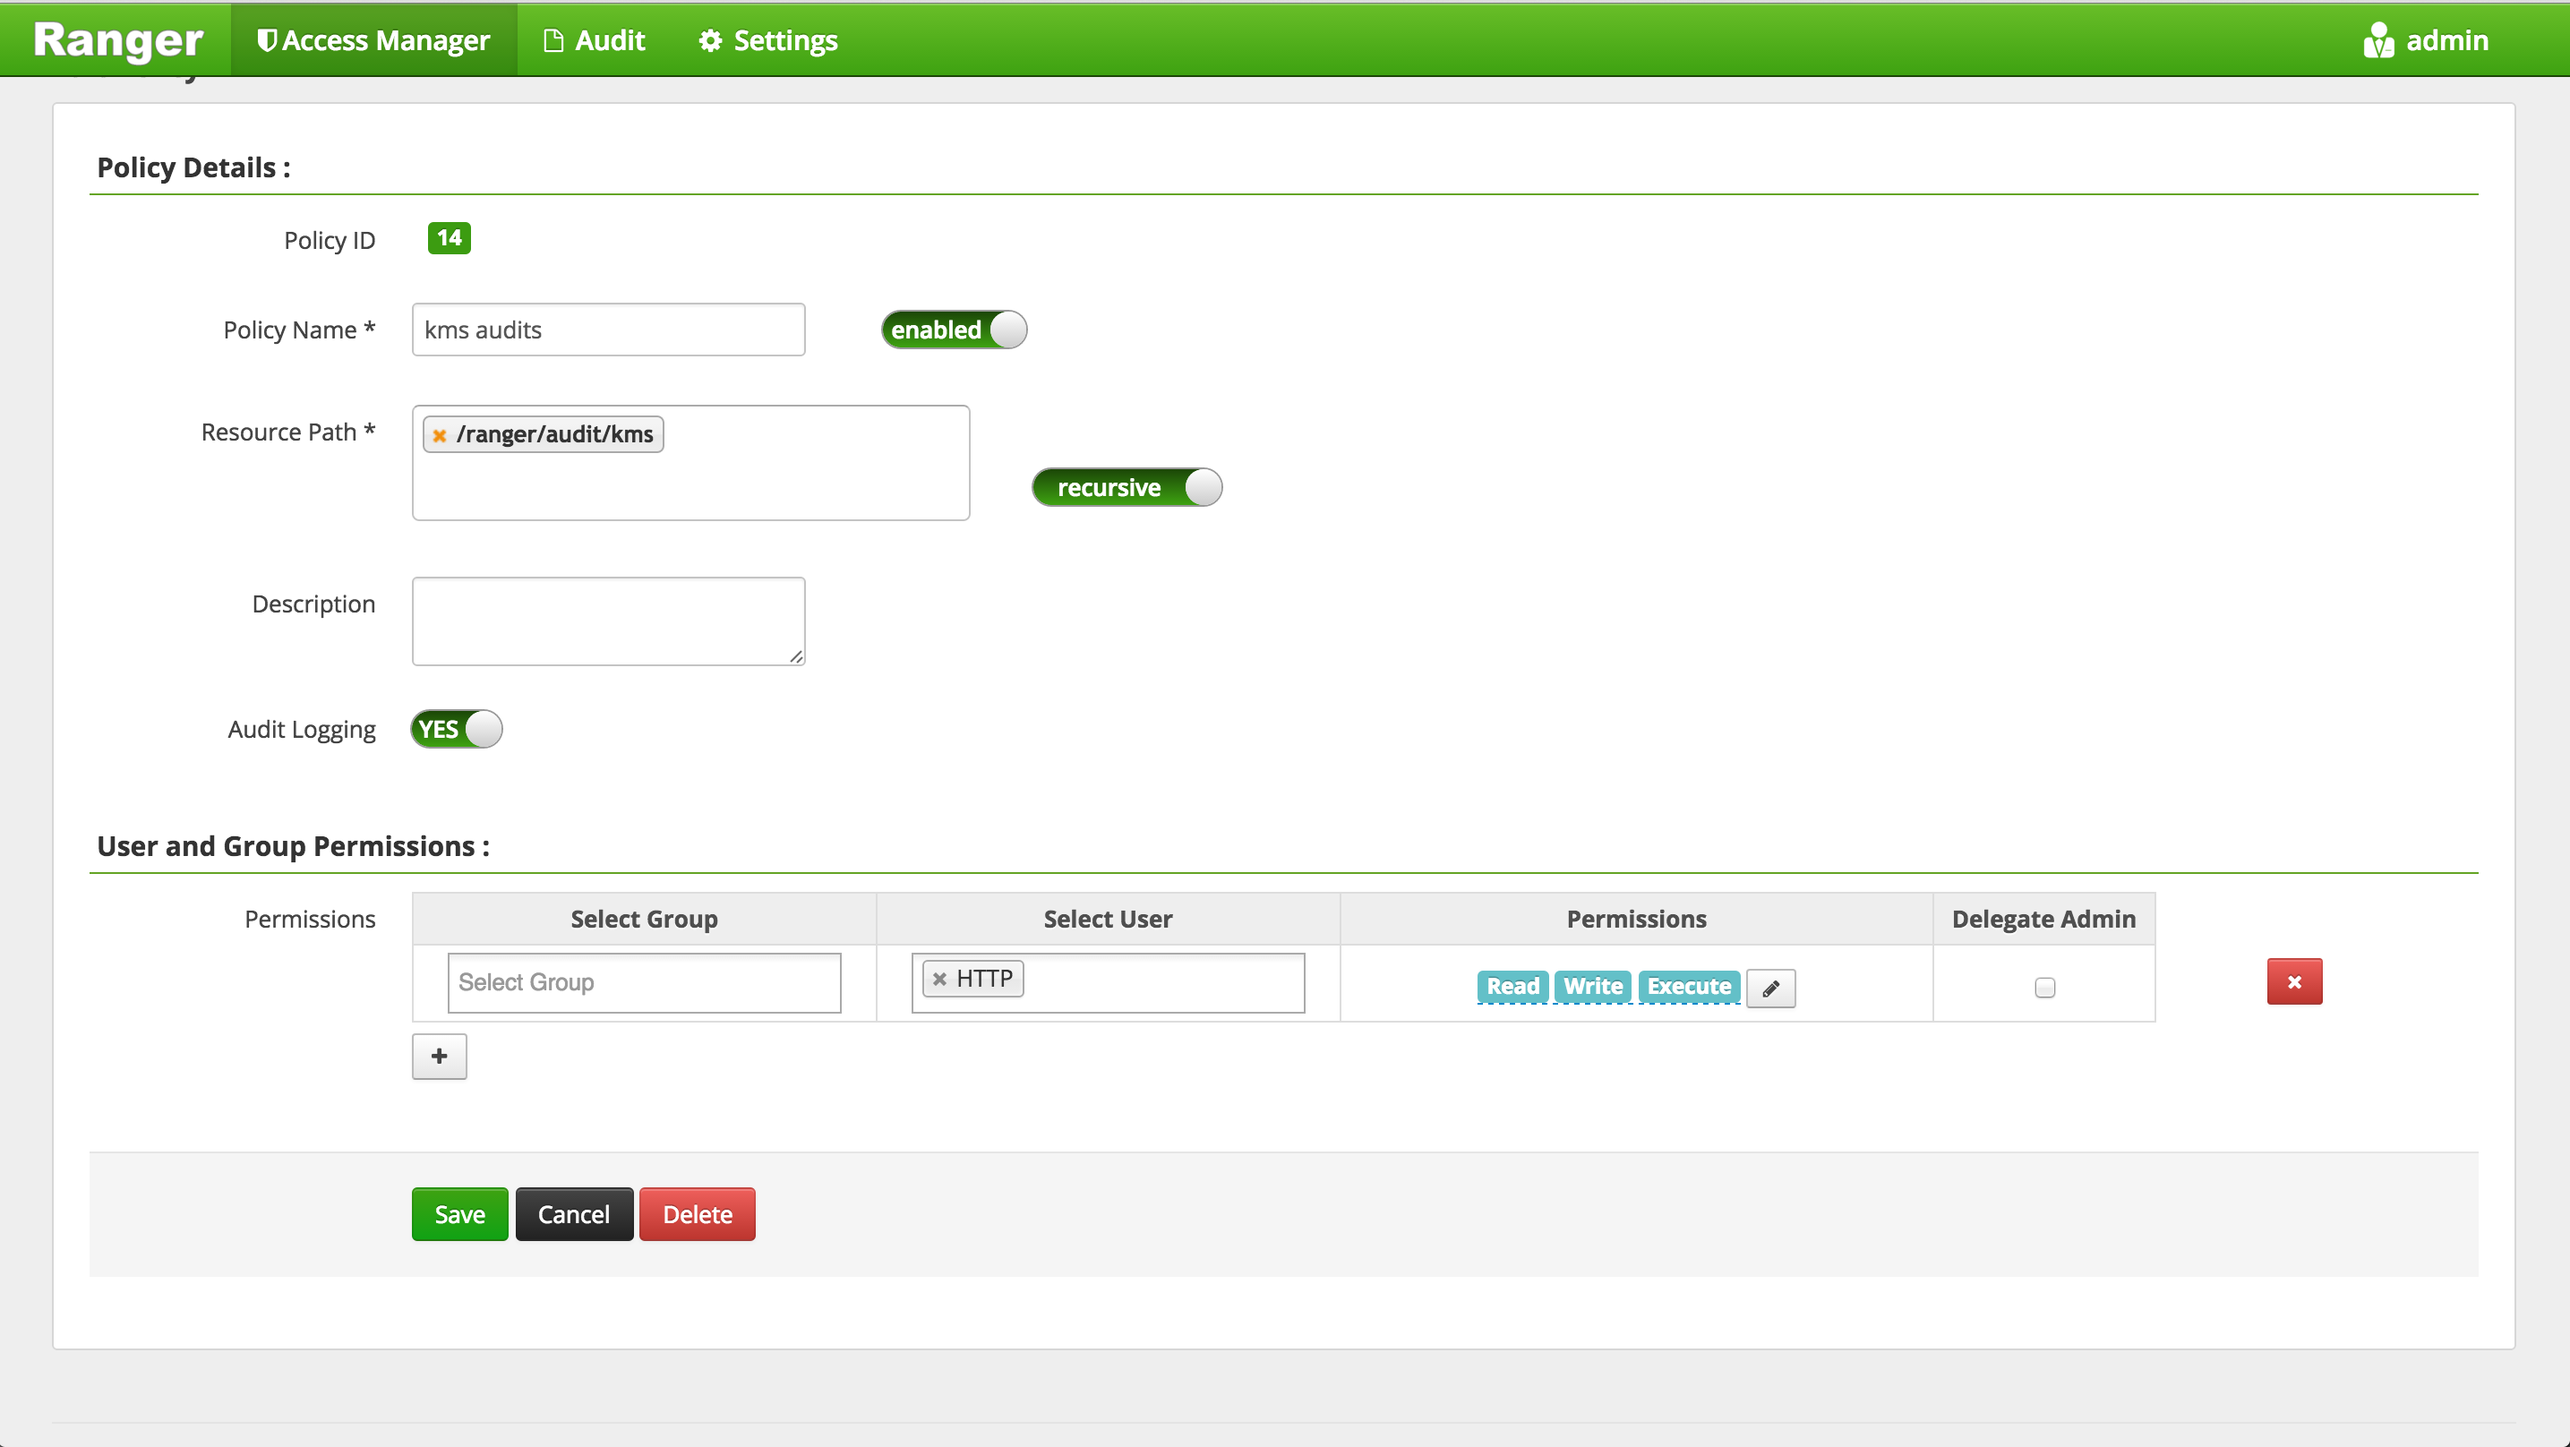
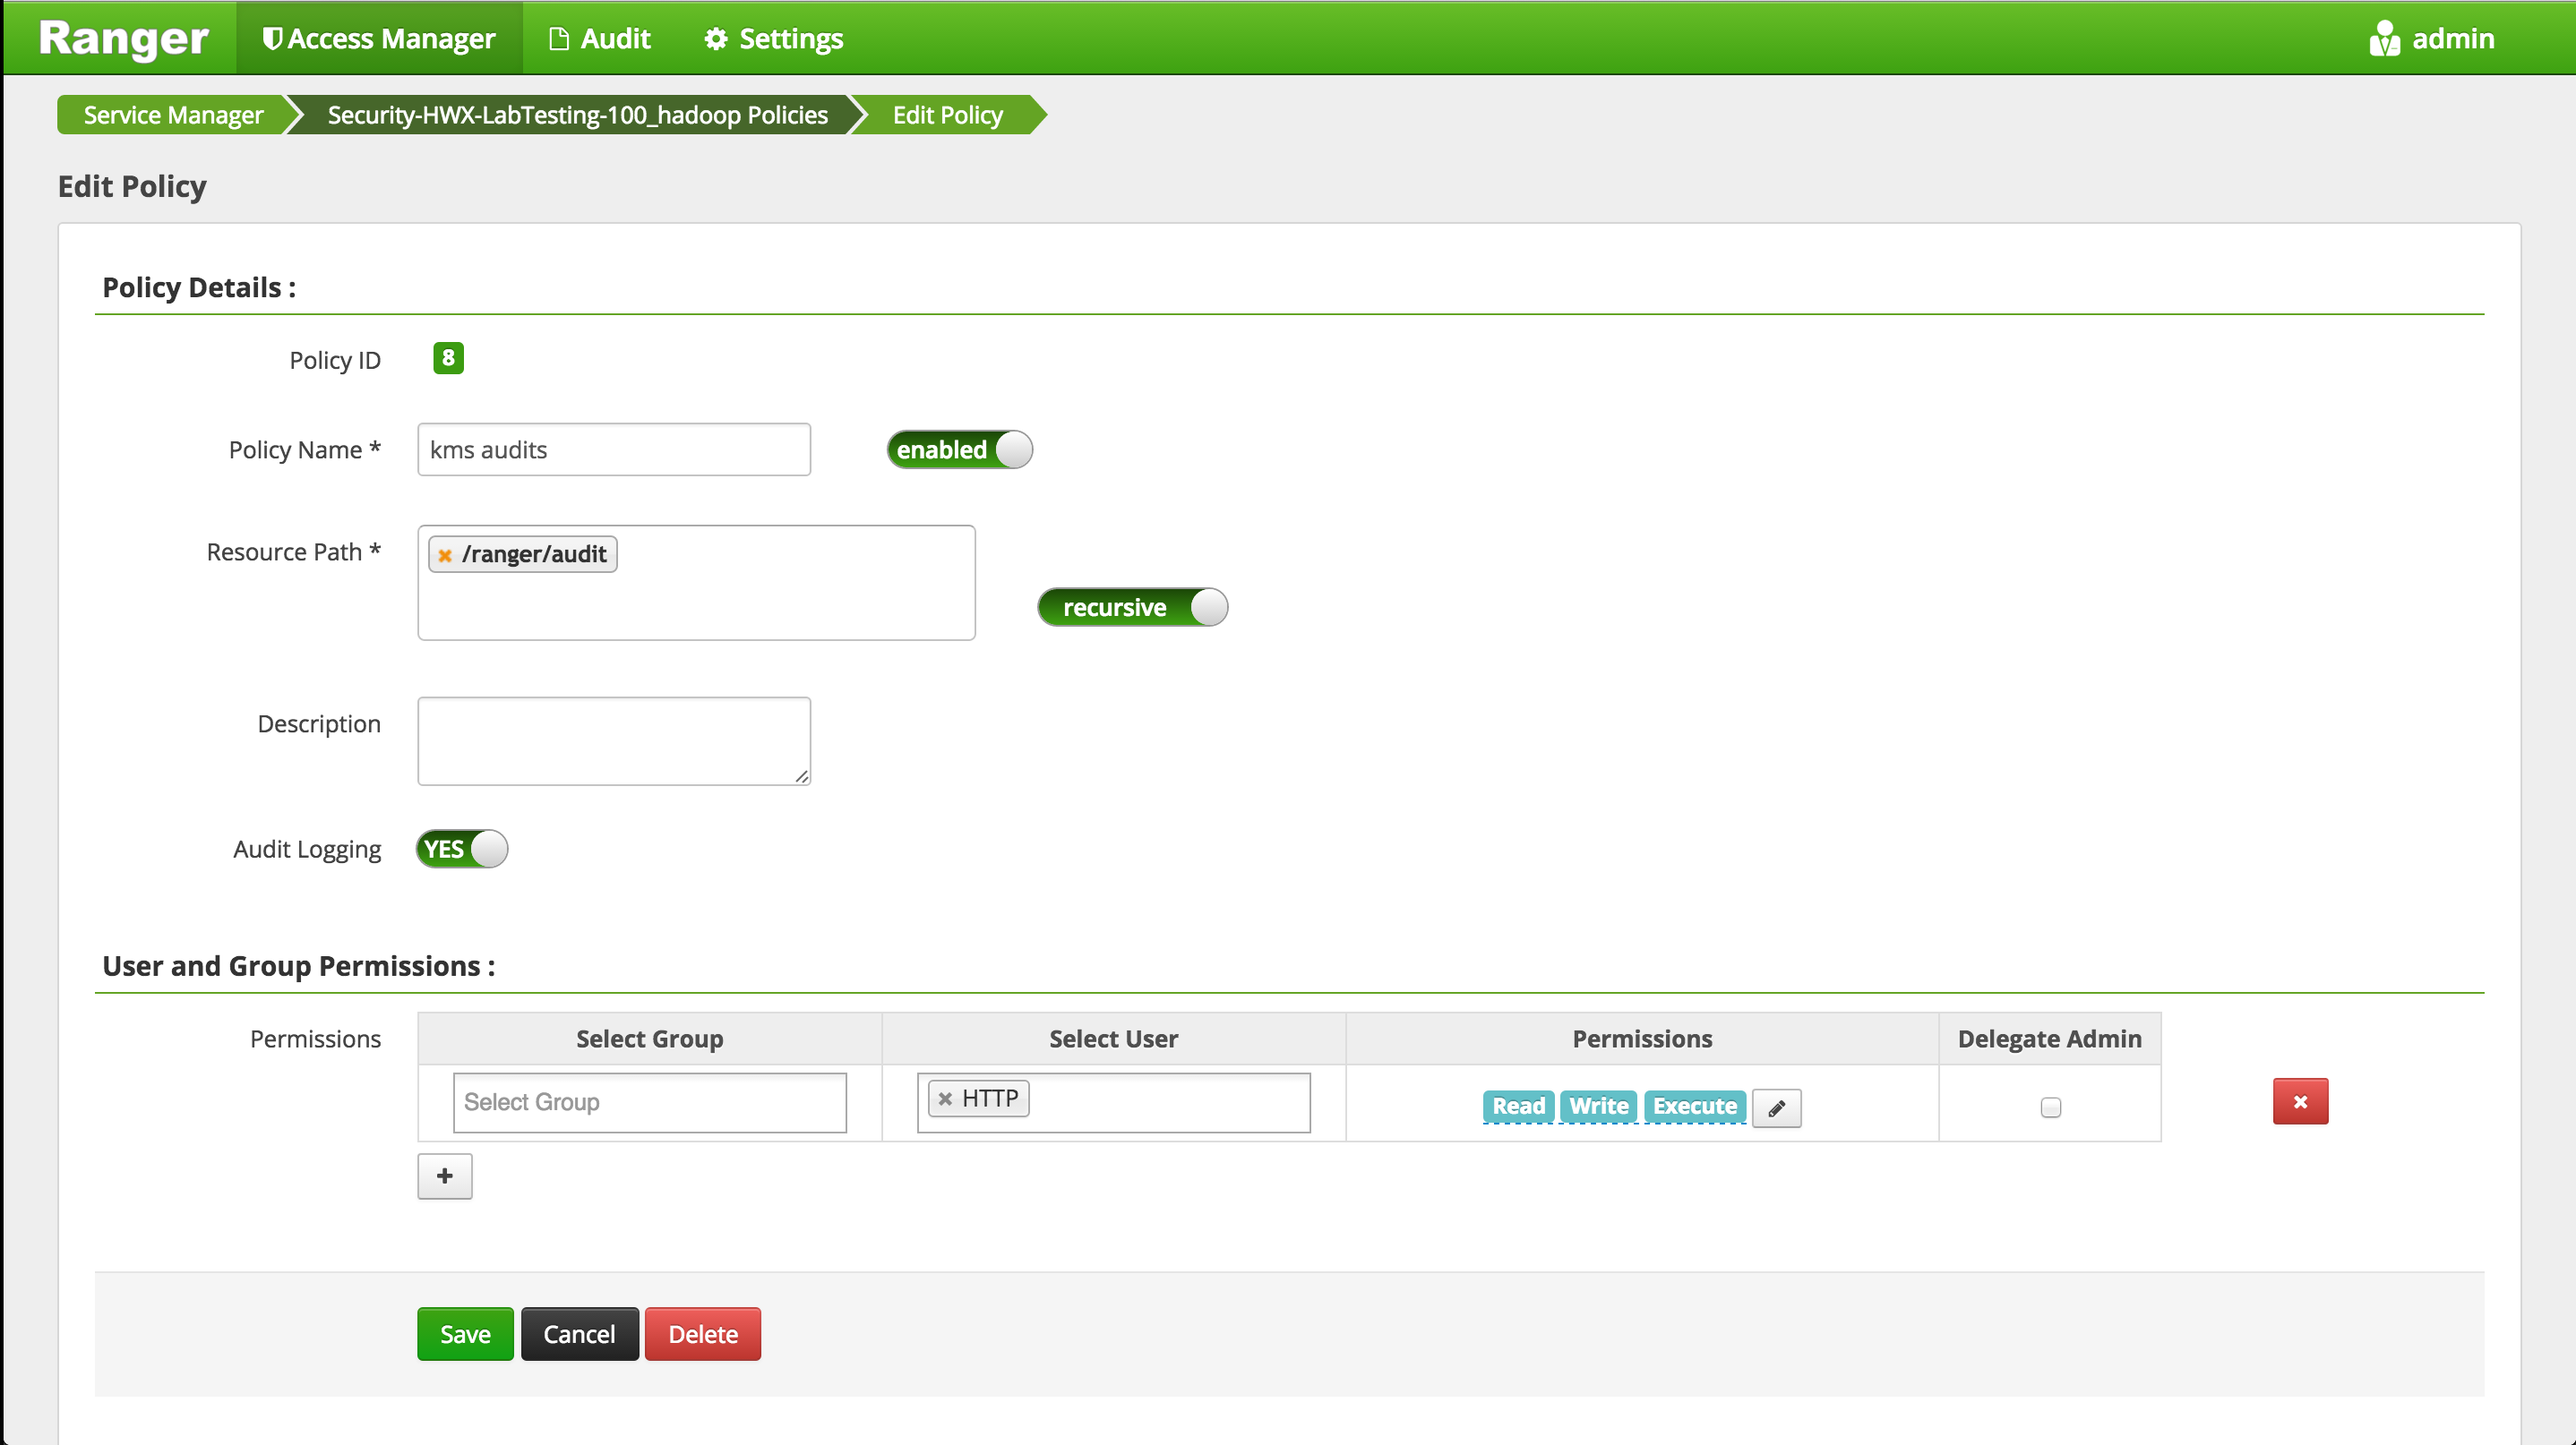
formatted

diff --git a/security-advanced/README.md b/security-advanced/README.md
@@ -1323,7 +1323,7 @@ sudo ln -s /etc/hadoop/conf/core-site.xml /etc/ranger/kms/conf/core-site.xml
   
   - Now "Add a new policy" for HTTP user to write KMS audits to HDFS by clicking "Add new policy" and creating below policy:
     - name: kms audits
-    - resource path: /ranger/audit/kms
+    - resource path: /ranger/audit
     - user: HTTP
     - Permissions: Read Write Execute
     ![Image](https://raw.githubusercontent.com/seanorama/masterclass/master/security-advanced/screenshots/Ranger-policy-kms-audit.png) 
